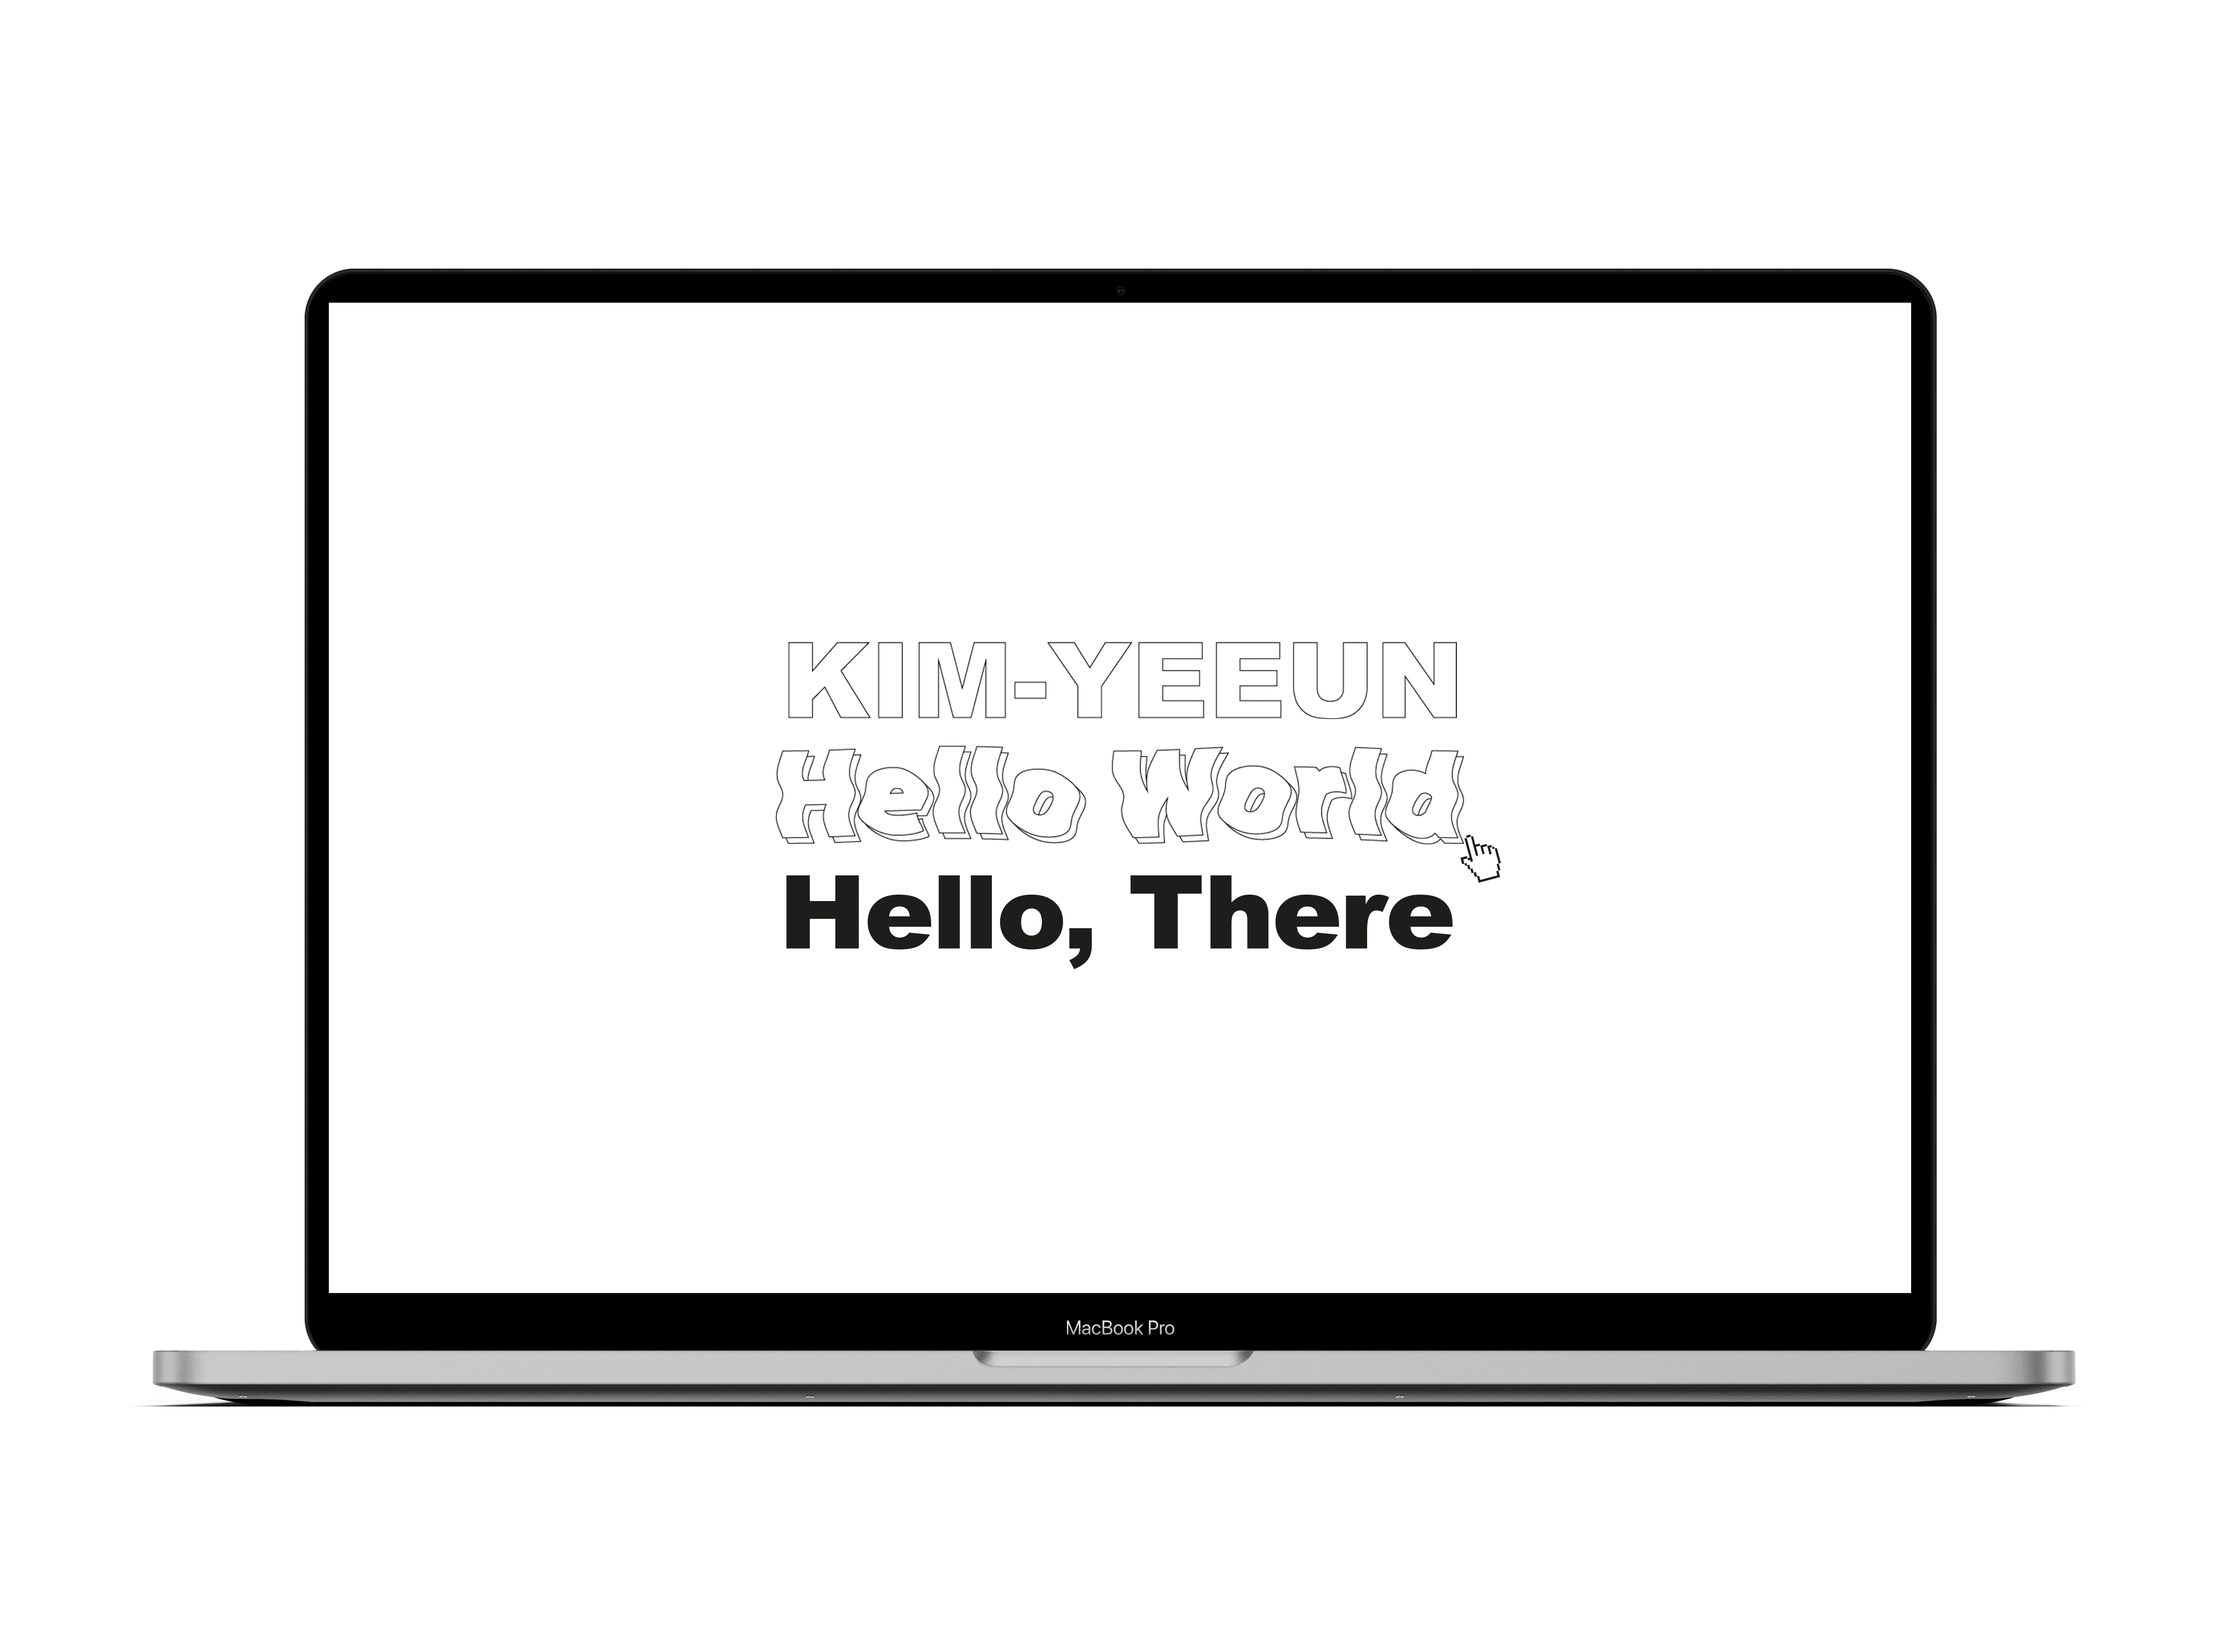
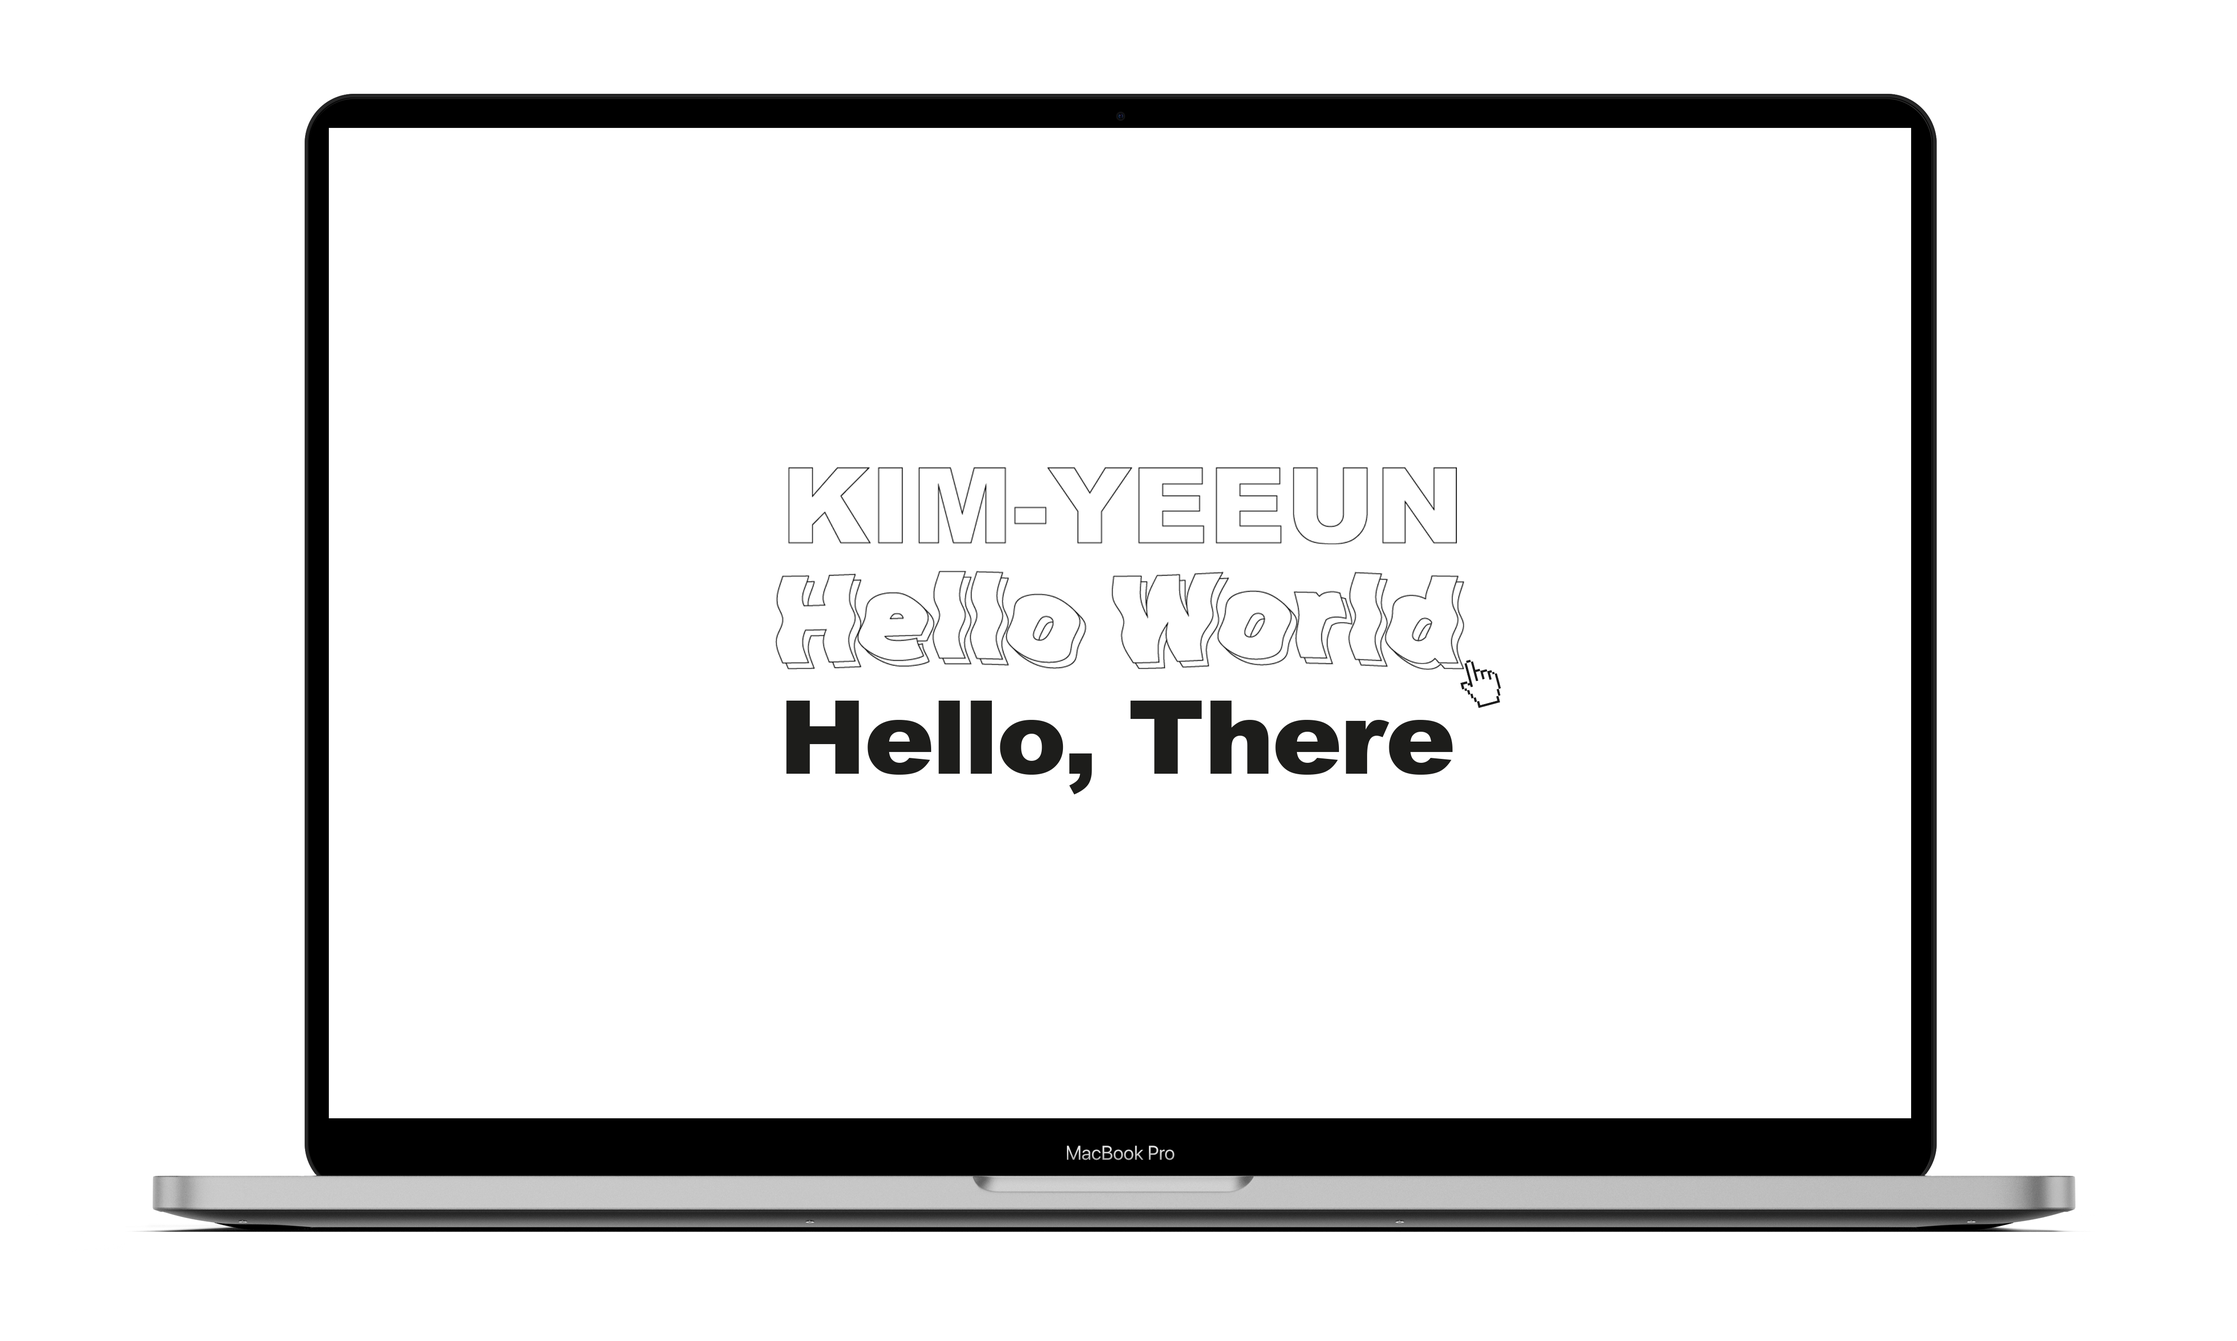
Update README.md image width

Changed region(s): [[0.0622, 0.7732, 0.9336, 0.9278], [0.3423, 0.3402, 0.6846, 0.5876], [0.1245, 0.0619, 0.8713, 0.1856]]

diff --git a/README.md b/README.md
@@ -1,4 +1,4 @@
-<img src="./helloworld.png" alt="profile">
+<p align="center"><img src="./helloworld.png" alt="profile" width="400px"></p>
 
 <!--
 **cona-tus/cona-tus** is a ✨ _special_ ✨ repository because its `README.md` (this file) appears on your GitHub profile.
